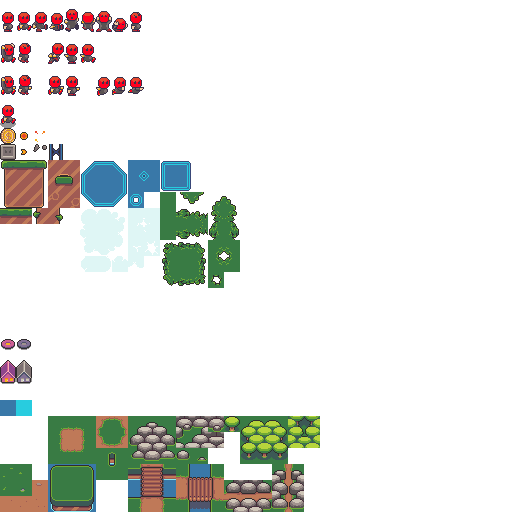
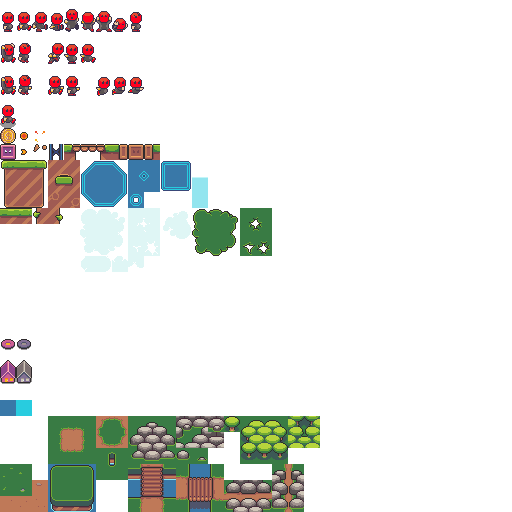
Committed some platformer art updates

diff --git a/Art Kits/Platformer/FRBPlatformerTileset.tsx b/Art Kits/Platformer/FRBPlatformerTileset.tsx
@@ -9,8 +9,8 @@
   <terrain name="OverworldTrees" tile="846"/>
   <terrain name="PlatformGrass" tile="322"/>
   <terrain name="PlatformBackground" tile="327"/>
-  <terrain name="PlatformClouds" tile="455"/>
-  <terrain name="PlatformBushes" tile="557"/>
+  <terrain name="PlatformClouds" tile="489"/>
+  <terrain name="PlatformBushes" tile="496"/>
  </terraintypes>
  <tile id="320" terrain=",,,5"/>
  <tile id="321" terrain=",,5,5"/>
@@ -45,10 +45,6 @@
  <tile id="390" terrain="6,6,,"/>
  <tile id="391" terrain="6,,,"/>
  <tile id="392" terrain="6,6,6,6" probability="0.01"/>
- <tile id="395" terrain=",8,,"/>
- <tile id="396" terrain="8,,,"/>
- <tile id="397" terrain=",,,8"/>
- <tile id="398" terrain=",,8,"/>
  <tile id="416" terrain=",,5,5" probability="0.2"/>
  <tile id="417" terrain=",,5,5" probability="0.2"/>
  <tile id="418" terrain=",5,,5" probability="0.05"/>
@@ -58,42 +54,40 @@
  <tile id="423" terrain=",,7,"/>
  <tile id="424" terrain="7,7,7,"/>
  <tile id="425" terrain="7,7,,7"/>
- <tile id="427" terrain=",,8,8"/>
- <tile id="428" terrain=",,8,8"/>
- <tile id="429" terrain=",8,,8"/>
- <tile id="430" terrain="8,,8,"/>
+ <tile id="426" terrain=",,,7"/>
+ <tile id="427" terrain=",,7,"/>
+ <tile id="428" terrain=",,,8"/>
+ <tile id="429" terrain=",,8,8"/>
+ <tile id="430" terrain=",,8,"/>
+ <tile id="431" terrain="8,8,8,"/>
+ <tile id="432" terrain="8,8,,8"/>
  <tile id="453" terrain=",7,,7"/>
  <tile id="454" terrain="7,7,7,7"/>
  <tile id="455" terrain="7,,7,"/>
  <tile id="456" terrain="7,,7,7"/>
  <tile id="457" terrain=",7,7,7"/>
- <tile id="459" terrain="8,8,,"/>
- <tile id="460" terrain="8,8,,"/>
- <tile id="461" terrain=",8,,8"/>
+ <tile id="458" terrain=",7,,"/>
+ <tile id="459" terrain="7,,,"/>
+ <tile id="460" terrain=",8,,8"/>
+ <tile id="461" terrain="8,8,8,8"/>
  <tile id="462" terrain="8,,8,"/>
+ <tile id="463" terrain="8,,8,8"/>
+ <tile id="464" terrain=",8,8,8"/>
  <tile id="485" terrain=",7,,"/>
  <tile id="486" terrain="7,7,,"/>
  <tile id="487" terrain="7,,,"/>
  <tile id="488" terrain="7,7,7,7" probability="0.01"/>
  <tile id="489" terrain="7,7,7,7"/>
- <tile id="490" terrain=",,,8"/>
- <tile id="491" terrain=",,8,8"/>
- <tile id="492" terrain=",,8,"/>
- <tile id="493" terrain="8,8,8,"/>
- <tile id="494" terrain="8,8,,8"/>
+ <tile id="492" terrain=",8,,"/>
+ <tile id="493" terrain="8,8,,"/>
+ <tile id="494" terrain="8,,,"/>
+ <tile id="495" terrain="8,8,8,8" probability="0.01"/>
+ <tile id="496" terrain="8,8,8,8" probability="0.01"/>
  <tile id="517" terrain=",7,,7"/>
  <tile id="518" terrain="7,,7,"/>
  <tile id="519" terrain=",,7,7"/>
  <tile id="520" terrain="7,7,,"/>
- <tile id="522" terrain=",8,,8"/>
- <tile id="523" terrain="8,8,8,8"/>
- <tile id="524" terrain="8,,8,"/>
- <tile id="525" terrain="8,,8,8"/>
- <tile id="526" terrain=",8,8,8"/>
- <tile id="554" terrain=",8,,"/>
- <tile id="555" terrain="8,8,,"/>
- <tile id="556" terrain="8,,,"/>
- <tile id="557" terrain="8,8,8,8" probability="0.01"/>
+ <tile id="557" probability="0.01"/>
  <tile id="800" terrain="1,1,1,1"/>
  <tile id="835" terrain="0,0,0,2"/>
  <tile id="836" terrain="0,0,2,2"/>
